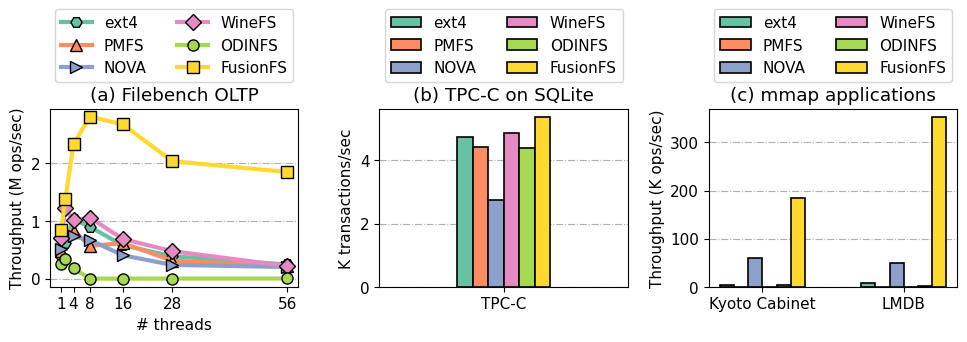
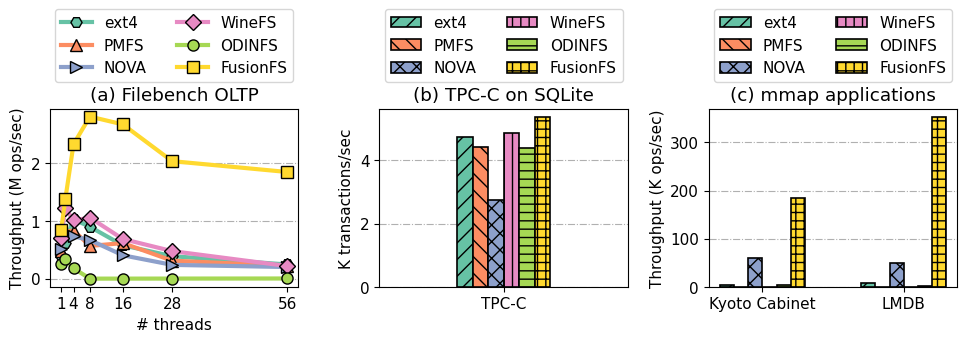
Add hatches

diff --git a/eval/fig/simulate-cxl.py b/eval/fig/simulate-cxl.py
@@ -4,7 +4,7 @@ import numpy as np
 old_fontsize = plt.rcParams['font.size']
 plt.rcParams['font.size'] = old_fontsize * 1.1
 
-# hat = ['|//','-\\\\','|\\\\','-//',"--","\\\\",'//',"xx"]
+hat = ['//', '\\\\', 'xx', '||', '--', '++']
 markers = ['H', '^', '>', 'D', 'o', 's', 'p', 'x']
 c = np.array([[102, 194, 165], [252, 141, 98], [141, 160, 203], 
         [231, 138, 195], [166,216,84], [255, 217, 47],
@@ -76,8 +76,8 @@ fig, (ax1, ax2, ax3) = plt.subplots(1, 3, figsize=(10, 3)) #, layout="constraine
 width = 0.35  # width of the bars
 x = np.arange(len(x_values))
 ax1.set_axisbelow(True)
-ax1.bar(x - width/2, y_values_1_odinfs, width, label="ODINFS", color=c[0], edgecolor='black', lw=1.2)
-ax1.bar(x + width/2, y_values_1_FusionFS, width, label="FusionFS", color=c[1], edgecolor='black', lw=1.2)
+ax1.bar(x - width/2, y_values_1_odinfs, width, label="ODINFS", color=c[0], edgecolor='black', lw=1.2, hatch=hat[0])
+ax1.bar(x + width/2, y_values_1_FusionFS, width, label="FusionFS", color=c[1], edgecolor='black', lw=1.2, hatch=hat[1])
 ax1.set_ylabel("Throughput (GiB/s)")
 ax1.set_xlabel("Access granularity (B)")
 ax1.set_xticks(x)
@@ -86,8 +86,8 @@ ax1.grid(axis='y', linestyle='-.')
 
 # Plot the second subplot
 ax2.set_axisbelow(True)
-ax2.bar(x - width/2, y_values_3_odinfs, width, label="ODINFS", color=c[0], edgecolor='black', lw=1.2)
-ax2.bar(x + width/2, y_values_3_FusionFS, width, label="FusionFS", color=c[1], edgecolor='black', lw=1.2)
+ax2.bar(x - width/2, y_values_3_odinfs, width, label="ODINFS", color=c[0], edgecolor='black', lw=1.2, hatch=hat[0])
+ax2.bar(x + width/2, y_values_3_FusionFS, width, label="FusionFS", color=c[1], edgecolor='black', lw=1.2, hatch=hat[1])
 ax2.set_ylabel("Latency (μs)")
 ax2.set_xlabel("Access granularity (B)")
 ax2.set_xticks(x)
@@ -96,8 +96,8 @@ ax2.grid(axis='y', linestyle='-.')
 
 # Plot the third subplot
 ax3.set_axisbelow(True)
-ax3.bar(x - width/2, y_values_2_odinfs, width, label="ODINFS", color=c[0], edgecolor='black', lw=1.2)
-ax3.bar(x + width/2, y_values_2_FusionFS, width, label="FusionFS", color=c[1], edgecolor='black', lw=1.2)
+ax3.bar(x - width/2, y_values_2_odinfs, width, label="ODINFS", color=c[0], edgecolor='black', lw=1.2, hatch=hat[0])
+ax3.bar(x + width/2, y_values_2_FusionFS, width, label="FusionFS", color=c[1], edgecolor='black', lw=1.2, hatch=hat[1])
 ax3.set_ylabel("I/O amplification")
 ax3.set_xlabel("Access granularity (B)")
 ax3.set_xticks(x)

diff --git a/resctrl/plot.py b/resctrl/plot.py
@@ -9,7 +9,7 @@ import numpy as np
 
 # plt.style.use(['science','ieee'])#,'no-latex']) # apt install cm-super dvipng
 
-hat = ['|//','-\\\\','|\\\\','-//',"--","\\\\",'//',"xx"]
+hat = ['//', '\\\\', 'xx', '||', '--', '++']
 markers = ['H', '^', '>', 'D', 'o', 's', 'p', 'x']
 c = np.array([[102, 194, 165], [252, 141, 98], [141, 160, 203], 
         [231, 138, 195], [166,216,84], [255, 217, 47],
@@ -528,12 +528,12 @@ def plot_IOContention(cat_types = [1, 12, 13]):
     ax_miss.set_axisbelow(True)
     ax_bw.set_axisbelow(True)
         
-    ax_miss.bar(0, miss_rate_CAT[0], label=cat_titles[1], color=c[0], edgecolor='black', lw=1.2)
-    ax_miss.bar(1, miss_rate_Shareable_CAT[0], label=cat_titles[12], color=c[1], edgecolor='black', lw=1.2)
-    ax_miss.bar(2, miss_rate_CAT_FLUSH[0], label=cat_titles[13], color=c[2], edgecolor='black', lw=1.2)
-    ax_bw.bar(0, MediaWrites_CAT[0] / MediaWrites_CAT_FLUSH[0], label=cat_titles[1], color=c[0], edgecolor='black', lw=1.2)
-    ax_bw.bar(1, MediaWrites_Shareable_CAT[0] / MediaWrites_CAT_FLUSH[0], label=cat_titles[12], color=c[1], edgecolor='black', lw=1.2)
-    ax_bw.bar(2, MediaWrites_CAT_FLUSH[0] / MediaWrites_CAT_FLUSH[0], label=cat_titles[13], color=c[2], edgecolor='black', lw=1.2)
+    ax_miss.bar(0, miss_rate_CAT[0], label=cat_titles[1], color=c[0], edgecolor='black', lw=1.2, hatch=hat[0])
+    ax_miss.bar(1, miss_rate_Shareable_CAT[0], label=cat_titles[12], color=c[1], edgecolor='black', lw=1.2, hatch=hat[1])
+    ax_miss.bar(2, miss_rate_CAT_FLUSH[0], label=cat_titles[13], color=c[2], edgecolor='black', lw=1.2, hatch=hat[2])
+    ax_bw.bar(0, MediaWrites_CAT[0] / MediaWrites_CAT_FLUSH[0], label=cat_titles[1], color=c[0], edgecolor='black', lw=1.2, hatch=hat[0])
+    ax_bw.bar(1, MediaWrites_Shareable_CAT[0] / MediaWrites_CAT_FLUSH[0], label=cat_titles[12], color=c[1], edgecolor='black', lw=1.2, hatch=hat[1])
+    ax_bw.bar(2, MediaWrites_CAT_FLUSH[0] / MediaWrites_CAT_FLUSH[0], label=cat_titles[13], color=c[2], edgecolor='black', lw=1.2, hatch=hat[2])
 
     # ax_miss.set_xticks([0, 1, 2])
     # ax_miss.set_xticklabels(["", "", ""])

diff --git a/eval/fig/breakdown.py b/eval/fig/breakdown.py
@@ -1,7 +1,7 @@
 import matplotlib.pyplot as plt
 import numpy as np
 
-# hat = ['|//','-\\\\','|\\\\','-//',"--","\\\\",'//',"xx"]
+hat = ['//', '\\\\', 'xx', '||', '--', '++']
 markers = ['H', '^', '>', 'D', 'o', 's', 'p', 'x']
 c = np.array([[102, 194, 165], [252, 141, 98], [141, 160, 203], 
         [231, 138, 195], [166,216,84], [255, 217, 47],
@@ -57,7 +57,7 @@ fig, (ax1, ax2) = plt.subplots(1, 2, figsize=(8, 3), layout="constrained")
 width = 0.35  # width of the bars
 x = range(len(x_values))
 ax1.set_axisbelow(True)
-ax1.bar(x, y_values_1_uniform, width, label="uniform", color=c[0], edgecolor='black', lw=1.2)
+ax1.bar(x, y_values_1_uniform, width, label="uniform", color=c[0], edgecolor='black', lw=1.2, hatch=hat[0])
 # ax1.bar([i + width for i in x], [val/1000000 for val in y_values_1_zipf], width, label="zipf", alpha=0.5)
 ax1.set_ylabel("Throughput (GiB/s)")
 # ax1.set_xticks([i + width/2 for i in x])
@@ -68,7 +68,7 @@ ax1.grid(axis='y', linestyle='-.')
 
 # Plot the second subplot
 ax2.set_axisbelow(True)
-ax2.bar(x, y_values_2_uniform, width, label="uniform", color=c[0], edgecolor='black', lw=1.2)
+ax2.bar(x, y_values_2_uniform, width, label="uniform", color=c[0], edgecolor='black', lw=1.2, hatch=hat[0])
 # ax2.bar([i + width for i in x], [val/1024 for val in y_values_2_zipf], width, label="zipf", alpha=0.5)
 ax2.set_ylabel("I/O amplification")
 # ax2.set_xticks([i + width/2 for i in x])

diff --git a/eval/fig/application.py b/eval/fig/application.py
@@ -38,7 +38,7 @@ labels = {
     "FusionFS": "FusionFS"
 }
 
-# hat = ['|//','-\\\\','|\\\\','-//',"--","\\\\",'//',"xx"]
+hat = ['//', '\\\\', 'xx', '||', '--', '++']
 markers = ['H', '^', '>', 'D', 'o', 's', 'p', 'x']
 
 i = 0
@@ -116,7 +116,7 @@ other_performances = []
 ax2.set_axisbelow(True)
 for i, fs in enumerate(order):
     performance = tpcc_performance[i] / 1000
-    ax2.bar(x1 + i * width1 - (len(order) / 2 - 0.5) * width1, [performance], width1, label=labels[fs], color=c[i], edgecolor='black', lw=1.2)
+    ax2.bar(x1 + i * width1 - (len(order) / 2 - 0.5) * width1, [performance], width1, label=labels[fs], color=c[i], edgecolor='black', lw=1.2, hatch=hat[i])
     if labels[fs] == 'FusionFS':
         fusionfs_performance = performance
     else:
@@ -151,7 +151,7 @@ width2 = 0.1  # 柱状图的宽度
 
 ax3.set_axisbelow(True)
 for i, fs in enumerate(order):
-    ax3.bar(x2 + i * width2 - (len(order) / 2 - 0.5) * width2, [kyoto_performance[i] / 1000, lmdb_performance[i] / 1000], width2, label=labels[fs], color=c[i], edgecolor='black', lw=1.2)
+    ax3.bar(x2 + i * width2 - (len(order) / 2 - 0.5) * width2, [kyoto_performance[i] / 1000, lmdb_performance[i] / 1000], width2, label=labels[fs], color=c[i], edgecolor='black', lw=1.2, hatch=hat[i])
 
 # ax3.set_xlabel('Workload')
 ax3.set_ylabel('Throughput (K ops/sec)')

diff --git a/eval/fig/fio-vary-zipf.py b/eval/fig/fio-vary-zipf.py
@@ -8,7 +8,7 @@ old_fontsize = plt.rcParams['font.size']
 plt.rcParams['font.size'] = old_fontsize * 1.1
 
 # 定义颜色和柱子宽度
-# hat = ['|//','-\\\\','|\\\\','-//',"--","\\\\",'//',"xx"]
+hat = ['//', '\\\\', 'xx', '||', '--', '++']
 c = np.array([[102, 194, 165], [252, 141, 98], [141, 160, 203], 
               [231, 138, 195], [166, 216, 84], [255, 217, 47],
               [229, 196, 148], [179, 179, 179]])
@@ -87,7 +87,7 @@ for i, (iosize, row, col) in enumerate([("4K", rows[0], cols[0]), ("2M", rows[0]
     ax.set_axisbelow(True)
     for j, zipf in enumerate(zipf_distributions):
         y = [throughput_data[fs][zipf].get((iosize, row, col), 0) for fs in filesystems]
-        ax.bar(x + j * width, y, width, label=zipf_labels[zipf], color=c[j], edgecolor='black', lw=1.2)
+        ax.bar(x + j * width, y, width, label=zipf_labels[zipf], color=c[j], edgecolor='black', lw=1.2, hatch=hat[j])
     
     maxes = []
     avgs = []
